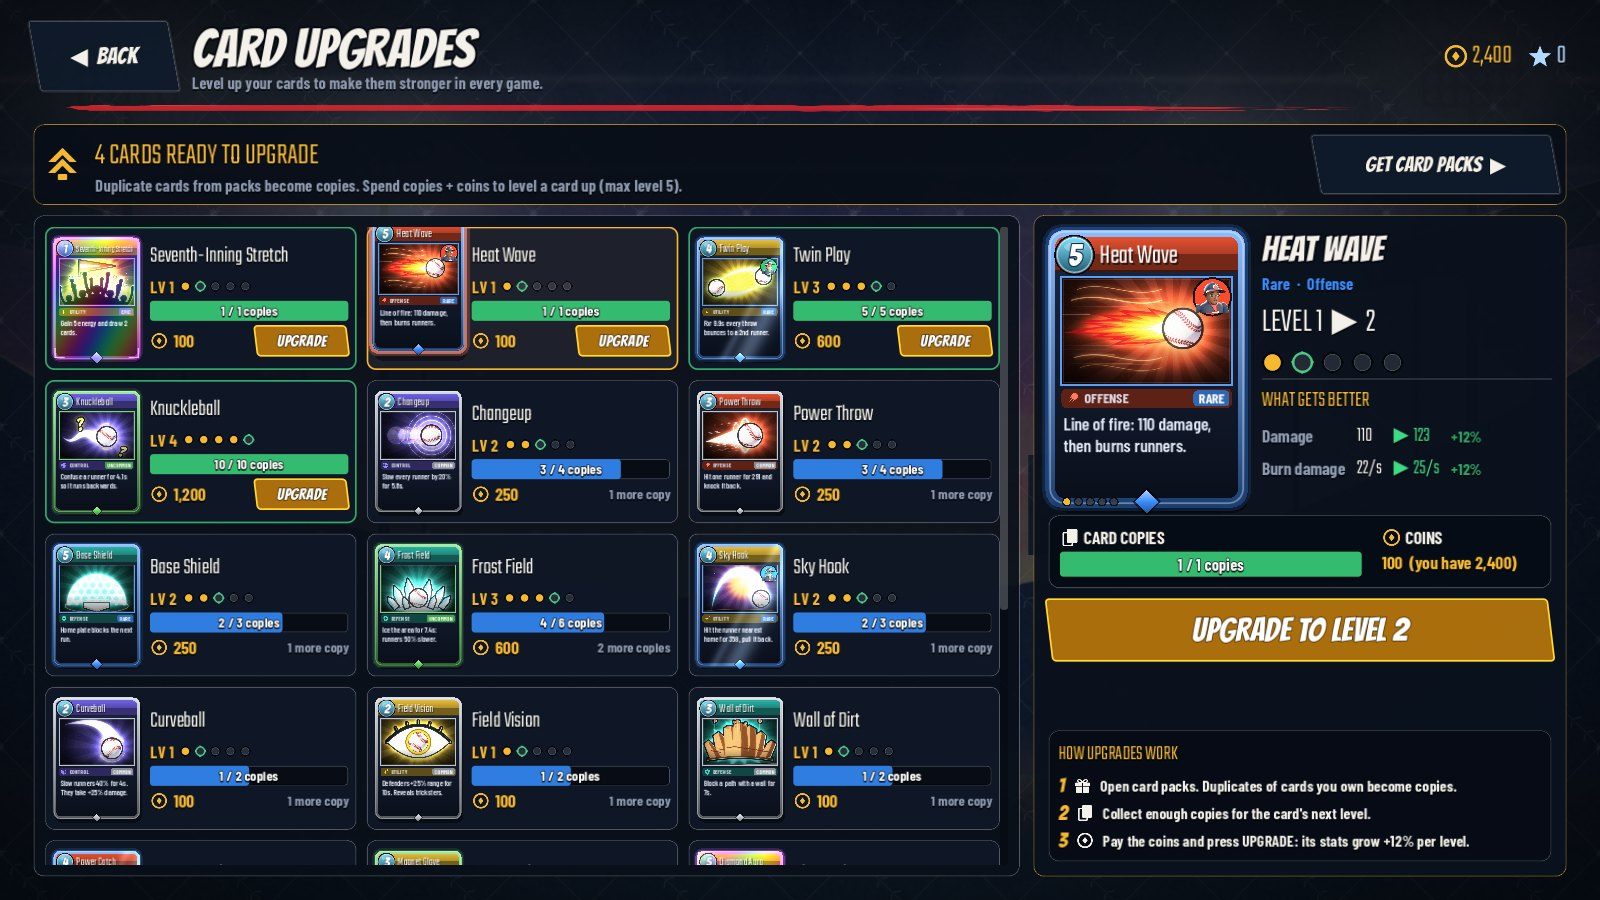
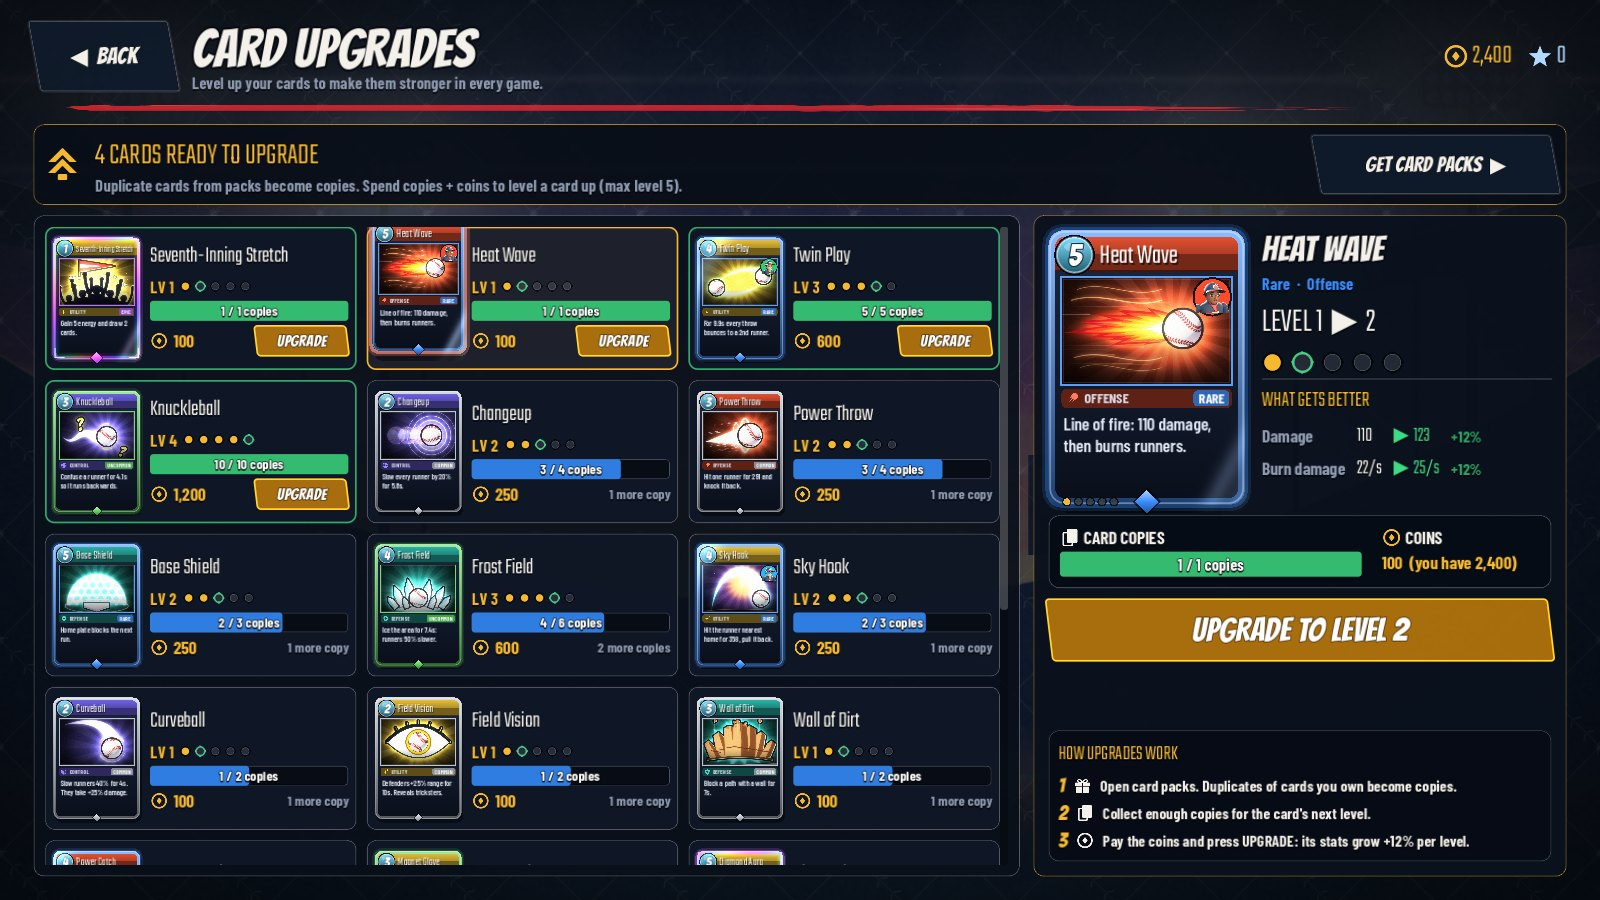
Fix Epic/Legendary card foil glitch on hover [build]
The foil shader computed its coordinates from the untransformed vertex, so after cards
started drawing around their bottom centre the holographic edge covered the whole card.
Hovering also rescaled TIME, making the light sweep jump. Pass the card's draw origin to
the shader and keep the sweep at a fixed speed. Refresh deck and upgrade screenshots.

Claude-Session: https://claude.ai/code/session_0152sgq3BPmEUFHQx2kFxsiy

diff --git a/docs/DEVELOPMENT_REPORT.md b/docs/DEVELOPMENT_REPORT.md
@@ -236,6 +236,9 @@ Vulkan, 1600×900, High preset). Gameplay shots come from autopilot games.
     "Click a runner").
   * Every cast flies a glow from the card to the target and bursts there, so each card visibly does
     something even when its effect is quiet.
+* **Foil fix** (`assets/shaders/card_foil.gdshader`): Epic and Legendary cards were washed in rainbow colours and
+  their light sweep jumped around while hovering. The foil now uses the card's own coordinates (the card is
+  drawn around its bottom centre since the hover animation was added) and the sweep keeps one speed.
 * **Field view** (`src/battle/camera_rig.gd`, `src/ui/battle_hud.gd`): the default camera shows all three gates,
   including the middle one, and home plate above the hand. The scoreboard moved to a compact top-right panel.
 * **Hits are easy to see** (`src/battle/enemy.gd`, `src/battle/projectiles.gd`, `src/vfx/vfx.gd`,
